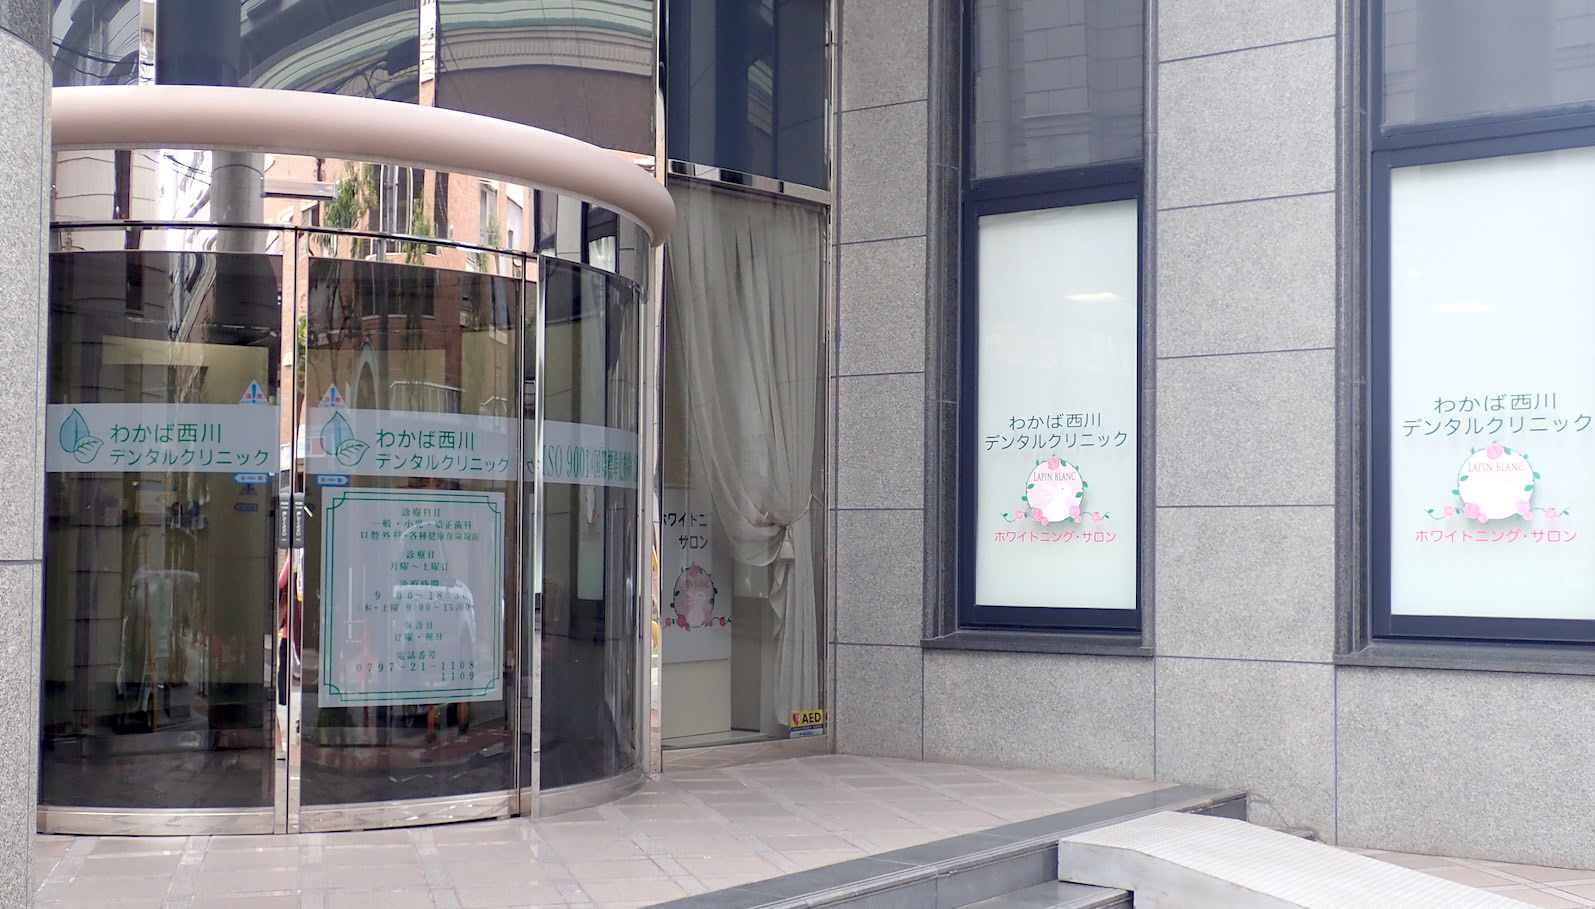
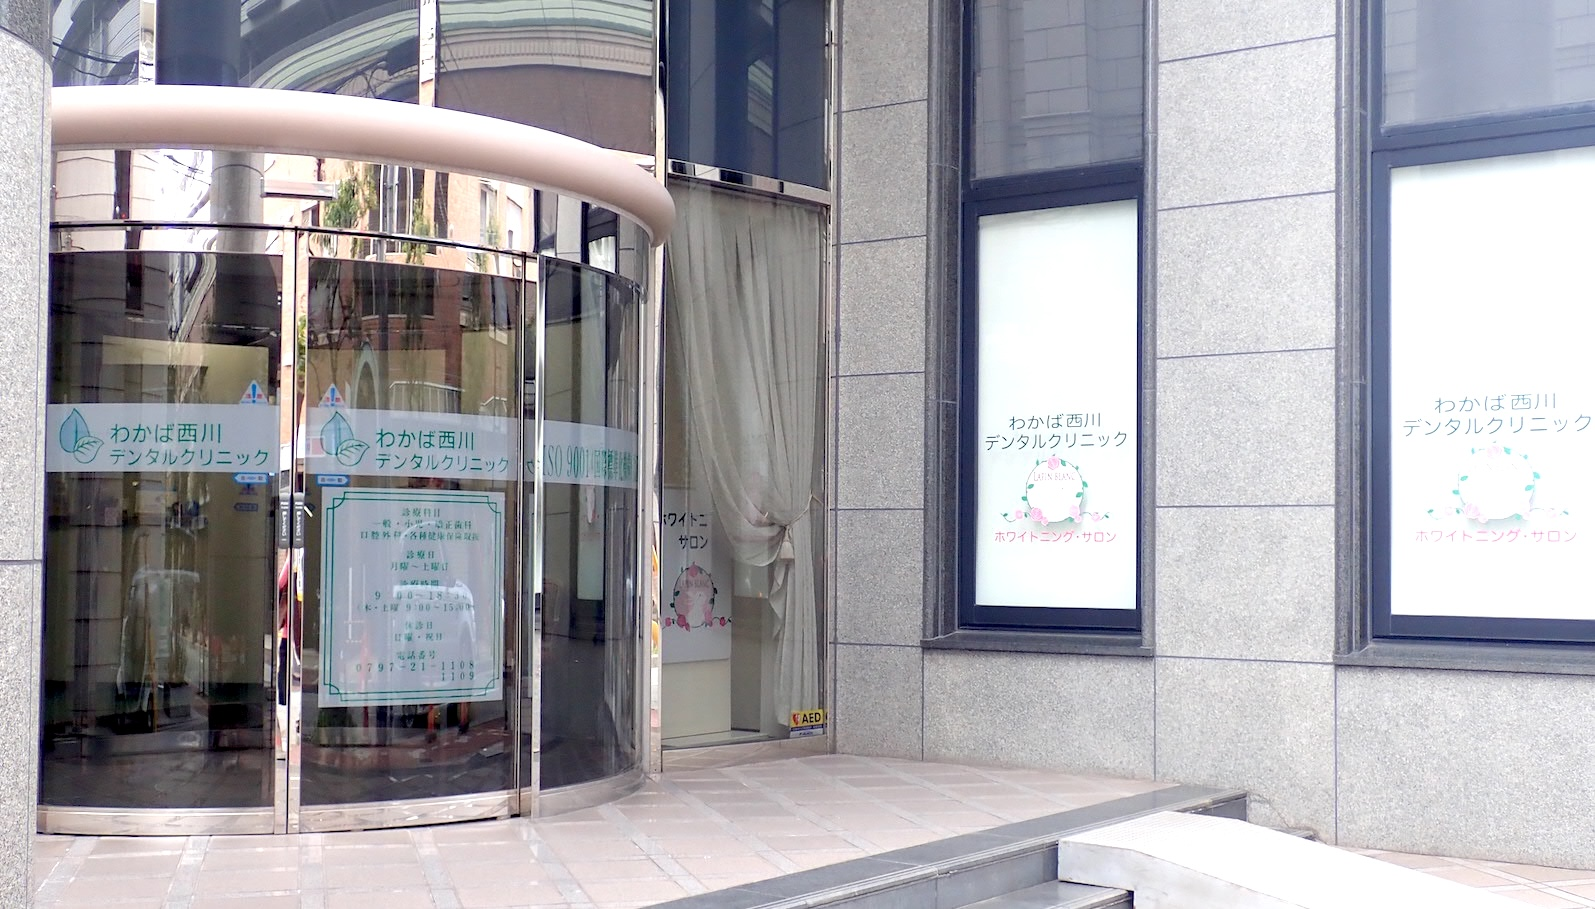
Some color corrections

diff --git a/css/jquery.bxslider.min.css b/css/jquery.bxslider.min.css
@@ -1,1 +1,187 @@
-.bx-wrapper{position:relative;margin-bottom:60px;padding:0;-ms-touch-action:pan-y;touch-action:pan-y;-moz-box-shadow:0 0 5px #ccc;-webkit-box-shadow:0 0 5px #ccc;box-shadow:0 0 5px #ccc;border:5px solid #fff;background:#fff}.bx-wrapper img{max-width:100%;display:block}.bxslider{margin:0;padding:0}ul.bxslider{list-style:none}.bx-viewport{-webkit-transform:translatez(0)}.bx-wrapper .bx-controls-auto,.bx-wrapper .bx-pager{position:absolute;bottom:-30px;width:100%}.bx-wrapper .bx-loading{min-height:50px;background:url(images/bx_loader.gif) center center no-repeat #fff;height:100%;width:100%;position:absolute;top:0;left:0;z-index:2000}.bx-wrapper .bx-pager{text-align:center;font-size:.85em;font-family:Arial;font-weight:700;color:#666;padding-top:20px}.bx-wrapper .bx-pager.bx-default-pager a{background:#666;text-indent:-9999px;display:block;width:10px;height:10px;margin:0 5px;outline:0;-moz-border-radius:5px;-webkit-border-radius:5px;border-radius:5px}.bx-wrapper .bx-pager.bx-default-pager a.active,.bx-wrapper .bx-pager.bx-default-pager a:focus,.bx-wrapper .bx-pager.bx-default-pager a:hover{background:#000}.bx-wrapper .bx-controls-auto .bx-controls-auto-item,.bx-wrapper .bx-pager-item{display:inline-block;vertical-align:bottom}.bx-wrapper .bx-pager-item{font-size:0;line-height:0}.bx-wrapper .bx-prev{left:10px;background:url(images/controls.png) 0 -32px no-repeat}.bx-wrapper .bx-prev:focus,.bx-wrapper .bx-prev:hover{background-position:0 0}.bx-wrapper .bx-next{right:10px;background:url(images/controls.png) -43px -32px no-repeat}.bx-wrapper .bx-next:focus,.bx-wrapper .bx-next:hover{background-position:-43px 0}.bx-wrapper .bx-controls-direction a{position:absolute;top:50%;margin-top:-16px;outline:0;width:32px;height:32px;text-indent:-9999px;z-index:9999}.bx-wrapper .bx-controls-direction a.disabled{display:none}.bx-wrapper .bx-controls-auto{text-align:center}.bx-wrapper .bx-controls-auto .bx-start{display:block;text-indent:-9999px;width:10px;height:11px;outline:0;background:url(images/controls.png) -86px -11px no-repeat;margin:0 3px}.bx-wrapper .bx-controls-auto .bx-start.active,.bx-wrapper .bx-controls-auto .bx-start:focus,.bx-wrapper .bx-controls-auto .bx-start:hover{background-position:-86px 0}.bx-wrapper .bx-controls-auto .bx-stop{display:block;text-indent:-9999px;width:9px;height:11px;outline:0;background:url(images/controls.png) -86px -44px no-repeat;margin:0 3px}.bx-wrapper .bx-controls-auto .bx-stop.active,.bx-wrapper .bx-controls-auto .bx-stop:focus,.bx-wrapper .bx-controls-auto .bx-stop:hover{background-position:-86px -33px}.bx-wrapper .bx-controls.bx-has-controls-auto.bx-has-pager .bx-pager{text-align:left;width:80%}.bx-wrapper .bx-controls.bx-has-controls-auto.bx-has-pager .bx-controls-auto{right:0;width:35px}.bx-wrapper .bx-caption{position:absolute;bottom:0;left:0;background:#666;background:rgba(80,80,80,.75);width:100%}.bx-wrapper .bx-caption span{color:#fff;font-family:Arial;display:block;font-size:.85em;padding:10px}
+.bx-wrapper {
+    position: relative;
+    margin-bottom: 60px;
+    padding: 0;
+    -ms-touch-action: pan-y;
+    touch-action: pan-y;
+    /*
+    -moz-box-shadow: 0 0 5px #ccc;
+    -webkit-box-shadow: 0 0 5px #ccc;
+    box-shadow: 0 0 5px #ccc;
+    border: 5px solid #fff;
+    */
+    background: #fff
+}
+
+.bx-wrapper img {
+    max-width: 100%;
+    display: block
+}
+
+.bxslider {
+    margin: 0;
+    padding: 0
+}
+
+ul.bxslider {
+    list-style: none
+}
+
+.bx-viewport {
+    -webkit-transform: translatez(0)
+}
+
+.bx-wrapper .bx-controls-auto,
+.bx-wrapper .bx-pager {
+    position: absolute;
+    bottom: -30px;
+    width: 100%
+}
+
+.bx-wrapper .bx-loading {
+    min-height: 50px;
+    background: url(images/bx_loader.gif) center center no-repeat #fff;
+    height: 100%;
+    width: 100%;
+    position: absolute;
+    top: 0;
+    left: 0;
+    z-index: 2000
+}
+
+.bx-wrapper .bx-pager {
+    text-align: center;
+    font-size: .85em;
+    font-family: Arial;
+    font-weight: 700;
+    color: #666;
+    padding-top: 20px
+}
+
+.bx-wrapper .bx-pager.bx-default-pager a {
+    background: #666;
+    text-indent: -9999px;
+    display: block;
+    width: 10px;
+    height: 10px;
+    margin: 0 5px;
+    outline: 0;
+    -moz-border-radius: 5px;
+    -webkit-border-radius: 5px;
+    border-radius: 5px
+}
+
+.bx-wrapper .bx-pager.bx-default-pager a.active,
+.bx-wrapper .bx-pager.bx-default-pager a:focus,
+.bx-wrapper .bx-pager.bx-default-pager a:hover {
+    background: #000
+}
+
+.bx-wrapper .bx-controls-auto .bx-controls-auto-item,
+.bx-wrapper .bx-pager-item {
+    display: inline-block;
+    vertical-align: bottom
+}
+
+.bx-wrapper .bx-pager-item {
+    font-size: 0;
+    line-height: 0
+}
+
+.bx-wrapper .bx-prev {
+    left: 10px;
+    background: url(images/controls.png) 0 -32px no-repeat
+}
+
+.bx-wrapper .bx-prev:focus,
+.bx-wrapper .bx-prev:hover {
+    background-position: 0 0
+}
+
+.bx-wrapper .bx-next {
+    right: 10px;
+    background: url(images/controls.png) -43px -32px no-repeat
+}
+
+.bx-wrapper .bx-next:focus,
+.bx-wrapper .bx-next:hover {
+    background-position: -43px 0
+}
+
+.bx-wrapper .bx-controls-direction a {
+    position: absolute;
+    top: 50%;
+    margin-top: -16px;
+    outline: 0;
+    width: 32px;
+    height: 32px;
+    text-indent: -9999px;
+    z-index: 9999
+}
+
+.bx-wrapper .bx-controls-direction a.disabled {
+    display: none
+}
+
+.bx-wrapper .bx-controls-auto {
+    text-align: center
+}
+
+.bx-wrapper .bx-controls-auto .bx-start {
+    display: block;
+    text-indent: -9999px;
+    width: 10px;
+    height: 11px;
+    outline: 0;
+    background: url(images/controls.png) -86px -11px no-repeat;
+    margin: 0 3px
+}
+
+.bx-wrapper .bx-controls-auto .bx-start.active,
+.bx-wrapper .bx-controls-auto .bx-start:focus,
+.bx-wrapper .bx-controls-auto .bx-start:hover {
+    background-position: -86px 0
+}
+
+.bx-wrapper .bx-controls-auto .bx-stop {
+    display: block;
+    text-indent: -9999px;
+    width: 9px;
+    height: 11px;
+    outline: 0;
+    background: url(images/controls.png) -86px -44px no-repeat;
+    margin: 0 3px
+}
+
+.bx-wrapper .bx-controls-auto .bx-stop.active,
+.bx-wrapper .bx-controls-auto .bx-stop:focus,
+.bx-wrapper .bx-controls-auto .bx-stop:hover {
+    background-position: -86px -33px
+}
+
+.bx-wrapper .bx-controls.bx-has-controls-auto.bx-has-pager .bx-pager {
+    text-align: left;
+    width: 80%
+}
+
+.bx-wrapper .bx-controls.bx-has-controls-auto.bx-has-pager .bx-controls-auto {
+    right: 0;
+    width: 35px
+}
+
+.bx-wrapper .bx-caption {
+    position: absolute;
+    bottom: 0;
+    left: 0;
+    background: #666;
+    background: rgba(80, 80, 80, .75);
+    width: 100%
+}
+
+.bx-wrapper .bx-caption span {
+    color: #fff;
+    font-family: Arial;
+    display: block;
+    font-size: .85em;
+    padding: 10px
+}

diff --git a/index.html b/index.html
@@ -62,7 +62,6 @@
 	window.dataLayer = window.dataLayer || [];
 	function gtag() { dataLayer.push(arguments); }
 	gtag('js', new Date());
-
 	gtag('config', 'G-F2M3B93186');
 </script>
 
@@ -90,7 +89,7 @@
 				<!-- 
 				<p class="lang_switcher"><span><a href="index_e.html">English</a> | <a href="index.html">日本語</a></span></p>
 				-->
-				<p class="lang-switcher"><a href="https://nodescan-admin.github.io/wakabanishikawa/index_e.html">English</a></p>
+				<p class="lang-switcher"><a href="/index_e.html">English</a></p>
 
 				<p class="contact"><span>ご予約｜お問い合わせ</span></p>
 				<p class="tel">0797-21-1108</p>
@@ -127,7 +126,7 @@
 			<div id="mainBanner">
 				<img
 					src="images/mainImg1.jpg"
-					alt=""
+					alt="Clinic front image"
 				>
 				<!--
 				<div class="slogan">
@@ -139,14 +138,14 @@
 			</div>
 			<div id="mainBanner2">
 				<img
-					src="images/mainImg3.jpg"
-					alt=""
+					src="images/2024/clinic3.jpg"
+					alt="Clinic interior image"
 				>
 			</div>
 			<div id="mainBanner3">
 				<img
 					src="images/2024/reception.jpg"
-					alt=""
+					alt="Reception image"
 				>
 			</div>
 		</div>

diff --git a/index_e.html b/index_e.html
@@ -73,7 +73,7 @@
 			<!-- h1>医療法人社団わかば西川デンタルクリニックのホームページへようこそ</h1> -->
 
 			<div class="verticalspacer"></div>
-			<!-- ロゴ 
+			<!-- ロゴ
 				<p><span>WakabaNishikawa Dental Clinic</span></p>
 			-->
 			<div class="logo">
@@ -86,7 +86,7 @@
 
 			<div class="info">
 				<p class="lang-switcher"><a href="index.html">日本語</a></p>
-				<!-- 
+				<!--
 				<p class="lang_switcher"><span><a href="index_e.html">English</a> | <a href="index.html">日本語</a></span></p>
 				-->
 				<p class="contact"><span>Appointments｜Contact us</span></p>
@@ -136,8 +136,14 @@
 			</div>
 			<div id="mainBanner2">
 				<img
-					src="images/mainImg3.jpg"
-					alt=""
+				src="images/2024/clinic3.jpg"
+				alt="Clinic interior image"
+			>
+			</div>
+			<div id="mainBanner3">
+				<img
+					src="images/2024/reception.jpg"
+					alt="Reception image"
 				>
 			</div>
 		</div>

diff --git a/css/style.css b/css/style.css
@@ -262,7 +262,7 @@ ul.no-indents li {
 .text-col {
 	width: 90%;
 	min-width: 200px;
-	margin: 4px;
+	margin: 10px;
 }
 
 .row {
@@ -414,6 +414,7 @@ div.logo p {
 .award-image {
 	border: 10px;
 	float: left;
+	max-width:260px;
 	/* max-height:260px; */
 }
 
@@ -451,6 +452,7 @@ div.logo p {
 	/* background:rgb(217, 243, 245); */
 
 	padding-top: 6px;
+	padding-bottom: 12px;
 	line-height: 1.2em;
 }
 
@@ -1559,6 +1561,9 @@ img.alignright.image-full-width {
 		font-size: 80%;
 	}
 
+	.text-col {
+		margin: 4px;
+	}
 
 	.column {
 		flex: 1;
